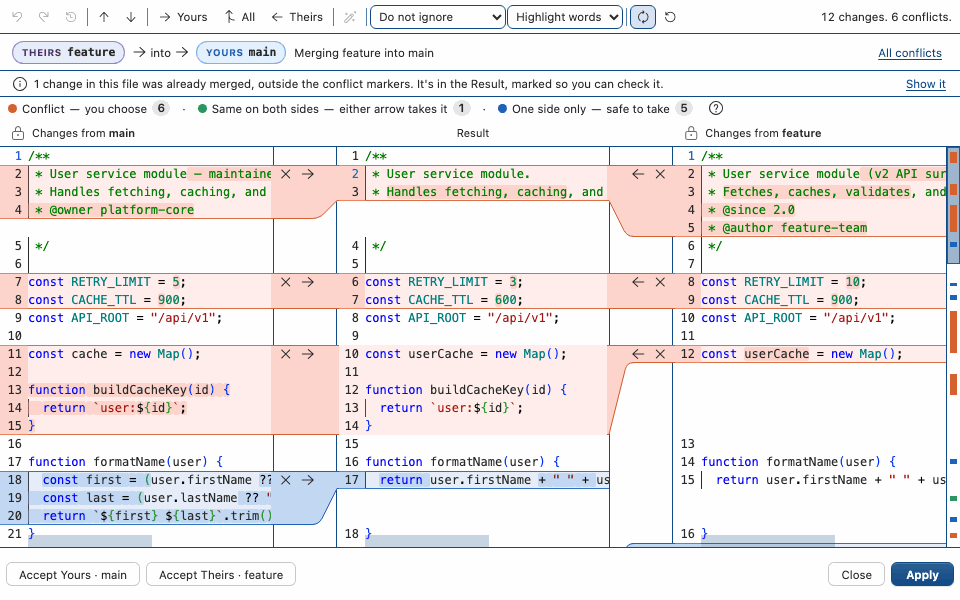
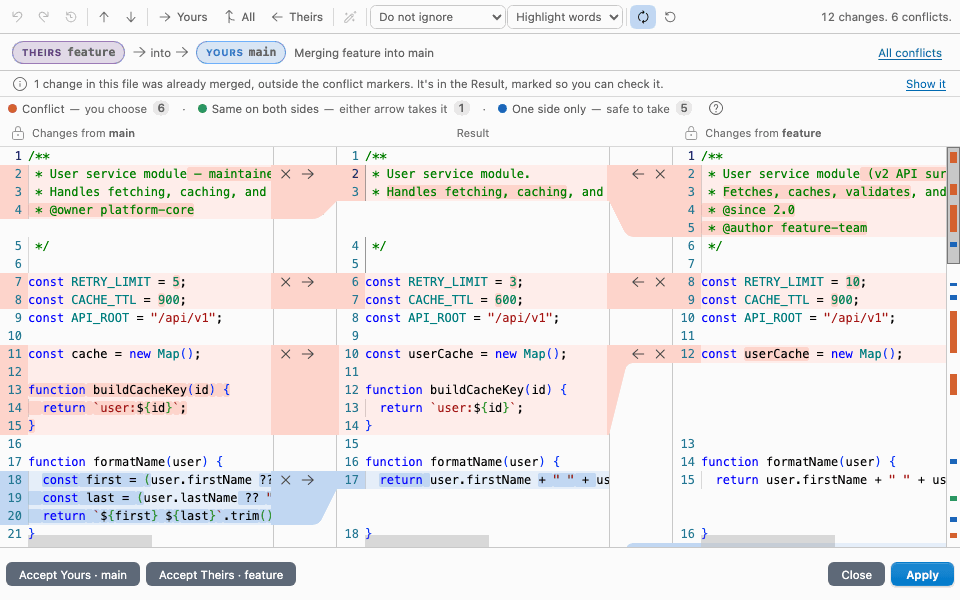
fix(walkthrough): Light+ shows the Light+ merge editor, not the high-contrast one
shots.ts picked each theme's merge render with includes("-light-"), which
also matches "-hc-light-" and sorts first: merge-light.png was a byte copy of
merge-hc-light.png, so Light+ showed outlined bands and buttons. The render
is matched by its whole prefix now, and merge-light.png is re-rendered and
repacked (pack.py takes ONLY=merge to pack one step; the other three merge
images were right and are unchanged).

walkthroughMedia.test.ts compares the four images of each step by content,
not only by path; it fails on the old merge-light.png.

diff --git a/apps/extension/test/walkthroughMedia.test.ts b/apps/extension/test/walkthroughMedia.test.ts
@@ -12,6 +12,7 @@
 import { test } from "node:test";
 import assert from "node:assert/strict";
 import Module from "node:module";
+import { createHash } from "node:crypto";
 import { existsSync, readFileSync, statSync } from "node:fs";
 import { join } from "node:path";
 
@@ -57,8 +58,18 @@ test("every step shows its own image in every theme — none of them the wordmar
       assert.ok(size < 60 * 1024, `${rel} is ${Math.round(size / 1024)} KB — packed with harness/walkthrough/pack.py?`);
       total += size;
     }
-    // The four themes are four renders, not one file four times.
+    // The four themes are four renders, not one file four times — and not
+    // one render under four names: Light+'s merge image was a byte copy of
+    // the high-contrast one (the harness matched "-light-" inside
+    // "-hc-light-"), and four different paths said nothing about that.
     assert.equal(new Set(Object.values(img)).size, 4, `${s.id}: four different files`);
+    const byContent = new Map<string, string>();
+    for (const [theme, rel] of Object.entries(img)) {
+      const hash = createHash("sha256").update(readFileSync(join(ROOT, rel))).digest("hex");
+      const twin = byContent.get(hash);
+      assert.ok(!twin, `${s.id}: ${theme}'s image is the same picture as ${twin}'s (${rel})`);
+      byContent.set(hash, theme);
+    }
     assert.ok(s.media.altText.length > 30 && s.media.altText !== "GitStudio", `${s.id}: its alt text says what it shows`);
   }
   assert.ok(total < 700 * 1024, `the walkthrough's images add ${Math.round(total / 1024)} KB to the VSIX`);

diff --git a/apps/extension/harness/walkthrough/shots.ts b/apps/extension/harness/walkthrough/shots.ts
@@ -329,7 +329,10 @@ function mergeShots(): void {
     { cwd: REPO, stdio: ["ignore", "ignore", "inherit"] },
   );
   for (const theme of THEMES) {
-    const shot = readdirSync(out).find((f) => f.includes(`-${theme}-`));
+    // render.ts names a shot <host>-<scenario>-<theme>-<file>.png. Matched by
+    // the whole prefix: "-light-" is also inside "-hc-light-", which sorts
+    // first, so Light+ shipped the high-contrast render.
+    const shot = readdirSync(out).find((f) => f.startsWith(`ext-merge.diff3-${theme}-`));
     if (shot) {
       copyFileSync(join(out, shot), join(OUT, `merge-${theme}.png`));
       console.log("merge", theme);

diff --git a/apps/extension/harness/walkthrough/pack.py b/apps/extension/harness/walkthrough/pack.py
@@ -2,6 +2,8 @@
 
     python3 apps/extension/harness/walkthrough/pack.py <shotsDir> apps/extension/media/walkthrough
 
+ONLY=merge,stage packs just those steps (as shots.ts renders just them).
+
 Each <step>-<theme>.png that shots.ts rendered is reduced to a 256-colour
 palette (UI renders have few colours; the text stays crisp) and, when oxipng
 is installed, recompressed losslessly. A walkthrough image ships in every
@@ -24,8 +26,11 @@ THEMES = ["dark", "light", "hc-dark", "hc-light"]
 def main() -> None:
     src, dst = sys.argv[1], sys.argv[2]
     os.makedirs(dst, exist_ok=True)
+    only = [x for x in os.environ.get("ONLY", "").split(",") if x]
     total = 0
     for step in STEPS:
+        if only and step not in only:
+            continue
         for theme in THEMES:
             name = f"{step}-{theme}.png"
             im = Image.open(os.path.join(src, name)).convert("RGB")
